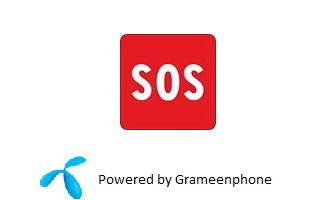
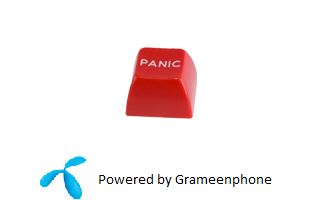
senond version

Changed region(s): [[0.375, 0.15, 0.6875, 0.66]]

diff --git a/www/index.html b/www/index.html
@@ -31,7 +31,7 @@
 			<div data-theme="b" data-role="header">
                 <a data-role="button" href="#infoPage" data-icon="gear" data-iconpos="left" class="ui-btn-left">Profile</a>
                 <a data-role="button" href="" data-icon="arrow-d" data-iconpos="left" class="ui-btn-right" onClick="exit()">Exit</a>
-                 <h3>SOS</h3>
+                 <h3>Panic Button</h3>
 		    </div>
 			<div data-role="content" >
 
@@ -40,8 +40,10 @@
 				<div id="help">
 					<input name="lat" id="lat" placeholder="" value="" type="hidden">
 					<input name="long" id="long" placeholder="" value="" type="hidden">
-					<button class="btnHelp" data-theme="e" id="indanger" name="indanger" style="background-color:#CFC" ><h2><font color="#FF0000" face="Arial, Helvetica, sans-serif">In Danger</font> </h2></button></br>
-					<button class="btnHelp" data-theme="e" id="injurred" name="injurred"><h2><font color="#FF0000" face="Arial, Helvetica, sans-serif" >Injured</font></h2></button>
+
+                    
+				  <button class="btnHelp" data-theme="e" id="indanger" name="indanger" style="background-color:#CFC; height:200px" ><h2><font color="#FF0000" face="Arial, Helvetica, sans-serif"><img src="T_36.png"> In Danger </font> </h2></button></br>
+					<button class="btnHelp" data-theme="e" id="injurred" name="injurred"><h2><font color="#FF0000" face="Arial, Helvetica, sans-serif" ><img src="T_36.png"> Injured</font></h2></button>
 					<!--<input type="button" name="btnDanger" class="btnHelp" value="In Danger" data-theme="e" /> </br>
 					<input type="button" name="btnInjurred" id="injured" class="btnHelp" value="Injurred" data-theme="e" />-->
 				</div>
@@ -53,21 +55,20 @@
                 
                 <font size="-1" color="#333333">
                 Tips:
-                <ul>
-                	<li>To register or get new pin, sms SOS ON to 2765</li>
-                    <li>Update your profile with PIN and contacts numbers  </li>
-                    <li>PIN can be used once  </li>
-                    <li>For Security reason profile and contact is not visible on the app</li>
-                    <li>Please update profile with contact numbers if you reinstall or get new pin</li>
-                    <li>To provide your accurate location, please keep the GPS on</li>
-                    <li>Always inform your contacts that you are using this application, so they know about the notification</li>
+                </font><ul>
+                	<li><font color="#333333" size="-1">To register or get new pin, sms PANIC ON to 2765</font></li>
+                    <li><font color="#333333" size="-1">Update your profile with PIN and contacts numbers. PIN can be used once</font></li>
+                    <li><font color="#333333" size="-1">For Security reason profile and contact is not visible on the app</font></li>
+                    <li><font color="#333333" size="-1">Please update profile with contact numbers if you reinstall or get new pin</font></li>
+                    <li><font color="#333333" size="-1">To provide your accurate location, please keep the GPS on</font></li>
+                    <li><font color="#333333" size="-1">Always inform your contacts that you are using this application, so they know about the notification</font></li>
                 </ul>
-                </font>
+                
                 
                 
             </div>
-			<div data-theme="b" data-role="footer" style="font-size:12px" align="center" >SOS</div>
-			<div style="font-size:12px; background-color:#FFFFFF; vertical-align:top;" align="center" >Powered by&nbsp;<img src="gplogo_small.png" alt="Grameen Phone" /></div>
+			<div data-theme="b" data-role="footer" style="font-size:12px" align="center" ></div>
+			<div style="font-size:12px; background-color:#FFFFFF; vertical-align:top;" align="center" >&nbsp;<img src="gplogo_small.png" alt="Grameen Phone" /></div>
 		
 		</div>
                 
@@ -125,7 +126,7 @@
                 <br/><br/><br/>
 								
 			</div>
-		    <div style="font-size:12px; background-color:#FFFFFF; vertical-align:top;" align="center" >Powered by&nbsp;<img src="gplogo_small.png" alt="Grameen Phone" /></div>
+		    <div style="font-size:12px; background-color:#FFFFFF; vertical-align:top;" align="center" >&nbsp;<img src="gplogo_small.png" alt="Grameen Phone" /></div>
 			
 		</div>
 		<div data-role="page" id="sucess">
@@ -148,7 +149,8 @@
 					   
             </div>
 			
-            <div style="font-size:12px; background-color:#FFFFFF; vertical-align:top;" align="center" >Powered by&nbsp;<img src="gplogo_small.png" alt="Grameen Phone" /></div>
+            <div style="font-size:12px; background-color:#FFFFFF; vertical-align:top;" align="center" >&nbsp;
+            <img src="gplogo_small.png" alt="Grameen Phone" /></div>
 			
         </div>
  

diff --git a/www/static/em.js b/www/static/em.js
@@ -1,10 +1,17 @@
 // Put your custom code here
 //var apipath='http://127.0.0.1:8000/em/default/';
+//var apipath='http://e.businesssolutionapps.com/em/default/';
+//var apipath='http://127.0.0.1:8000/em/default/';
 var apipath='http://e.businesssolutionapps.com/em/default/';
+//var apipath='http://127.0.0.1:8000/em/default/';
+
+
+var helpCount = 0;
 
 
 //-------GET GEO LOCATION----------------------------
 function getlocationand_askhelp() { //location
+//	$("#helperror").text('inside ask help');
 	navigator.geolocation.getCurrentPosition(onSuccess, onError);
 	
 }
@@ -13,12 +20,14 @@ function getlocationand_askhelp() { //location
 function onSuccess(position) {
 	$("#lat").val(position.coords.latitude);
 	$("#long").val(position.coords.longitude);
+//	$("#helperror").text('success');
 	get_help();
 }
 	
 function onError(error) {
 	$("#lat").val(0);
 	$("#long").val(0);
+//	$("#helperror").text('failed');
 	get_help();
 	//alert('code: '    + error.code    + '\n' +'message: ' + error.message + '\n');
 	}
@@ -203,17 +212,19 @@ $('#indanger').click(function(){
 
 	$("#helperror").show();
 	$("#helperror").text('Getting Location .... ');
+	setInterval("getlocationand_askhelp()",1000);
 	getlocationand_askhelp();
-
-
-	
-	
+//	$("#helperror").hide();
+//	navigator.app.exitApp();
 	});//click
 
 $('#injurred').click(function(){
 	$("#helperror").show();
-	$("#helperror").text('Getting Location .... ');	
+	$("#helperror").text('Getting Location .... ');
+	setInterval("getlocationand_askhelp()",1000);
 	getlocationand_askhelp()
+//	$("#helperror").hide();
+//	navigator.app.exitApp();
 	
 	});//click
 
@@ -228,12 +239,12 @@ function get_help() {
 	
 	var lat=$("#lat").val();
 	var long=$("#long").val();
-	
+//	$("#helperror").text('inside get help');
 	if(localStorage.mobileNo=='' || localStorage.mobileNo==undefined || localStorage.pinNo=='' || localStorage.pinNo==undefined){
 		$("#helperror").text('Invalid authorization, to register or to get new pin, sms SOS ON to 2765 and update your profile');
 	}else{
-		//alert('http://127.0.0.1:8000/em/default/track?mNo='+localStorage.mobileNo+'&pNo='+localStorage.pinNo+'&lat='+lat+'&lon='+long);
-//		$("#helperror").text('http://127.0.0.1:8000/em/default/track?mNo='+localStorage.mobileNo+'&pNo='+localStorage.pinNo+'&lat='+lat+'&lon='+long);
+//		alert('http://127.0.0.1:8000/em/default/track?mNo='+localStorage.mobileNo+'&pNo='+localStorage.pinNo+'&lat='+lat+'&lon='+long);
+		$("#helperror").text('http://127.0.0.1:8000/em/default/track?mNo='+localStorage.mobileNo+'&pNo='+localStorage.pinNo+'&lat='+lat+'&lon='+long);
 		
 		$.ajax({
 		 // url:'http://127.0.0.1:8000/em/default/track?mNo='+localStorage.mobileNo+'&pNo='+localStorage.pinNo+'&lat='+lat+'&lon='+long,
@@ -249,14 +260,29 @@ function get_help() {
 					   }
 					   
 					   	
-					   }else{	
-						   $("#helperror").text('Invalid authorization, to register or to get new pin, sms SOS ON to 2765');
-						   }
+				   }else{	
+					   $("#helperror").text('Invalid authorization, to register or to get new pin, sms SOS ON to 2765');
+					   }
+//				setTimeout(
+//					   function (){
+//						   $("#helperror").hide();
+//						   }
+//					   ,5000);
+				   
 			   }//result
 		   
 		   });//ajax
 	
 		}//else
+	
+	helpCount = helpCount+1;
+//	$("#helperror").text(helpCount);
+	$("#helperror").text('');
+//	exit();
+	if (helpCount>2){
+//		$("#helperror").text('inside count');
+		exit();
+	}
 }
 
 //--------------------------------------------- Exit Application
